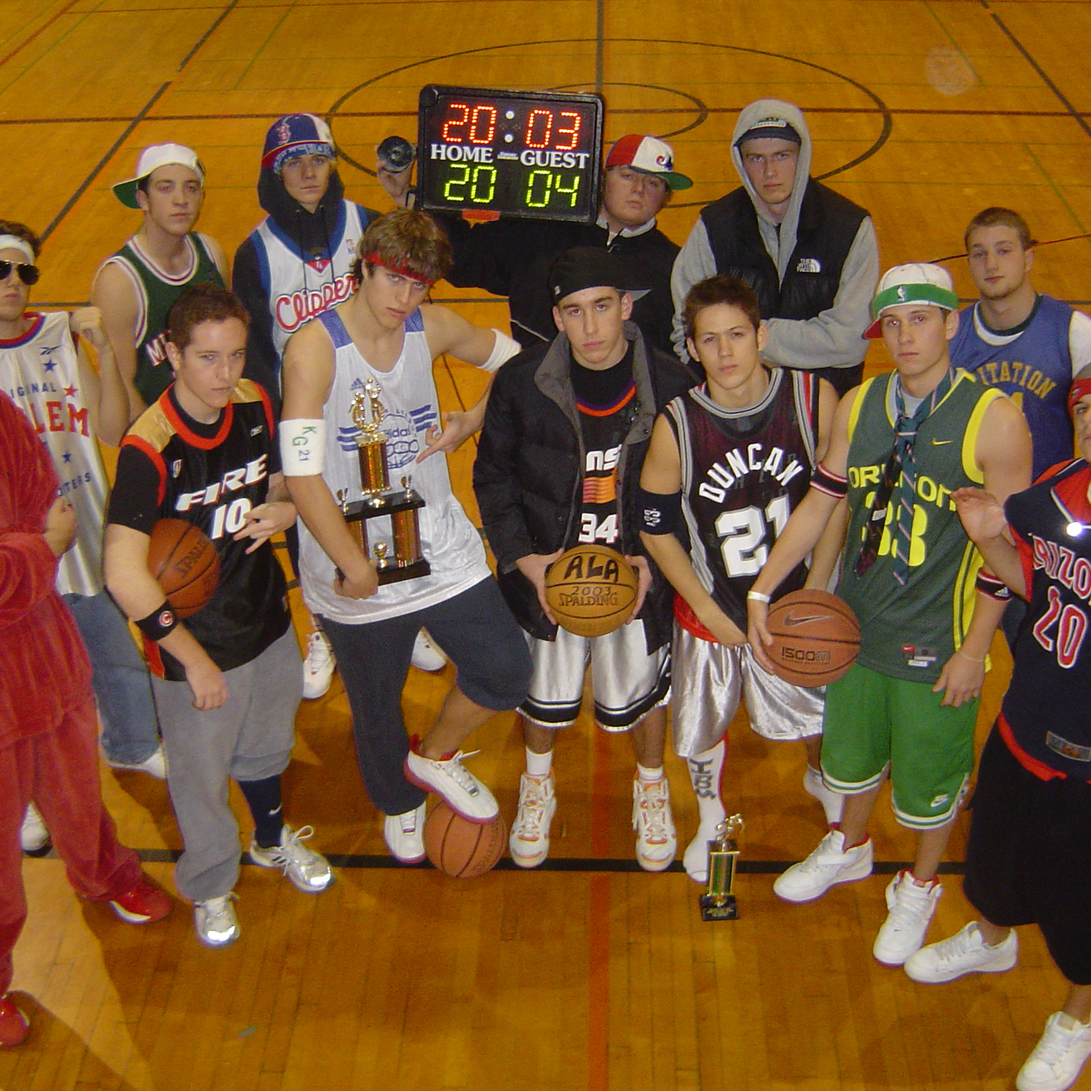
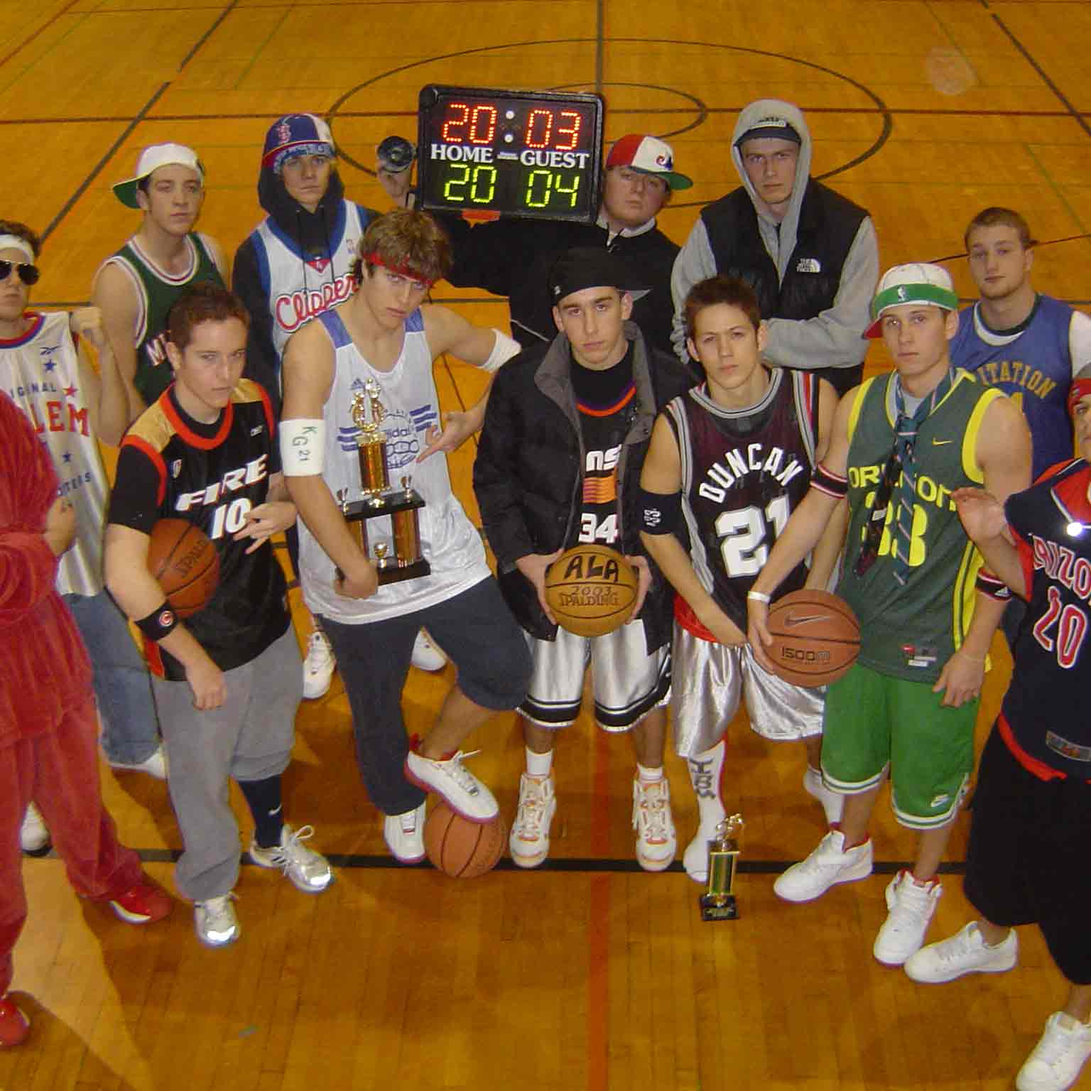
compress splash photos

diff --git a/public/stylesheets/style.css b/public/stylesheets/style.css
@@ -93,7 +93,7 @@ mobSquare {
 }
 
 .kophiphi-mob {
-  background-image: url('../images/kophiphi.gif');
+  background-image: url('../images/kophiphi.jpg');
 }
 
 .work-mob {
